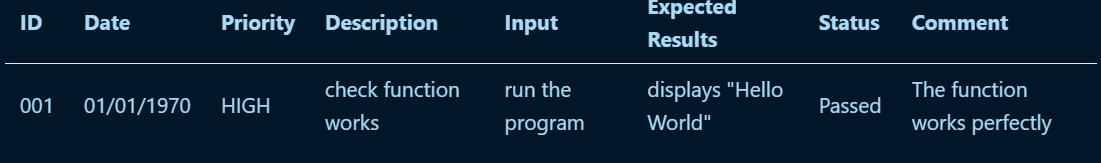
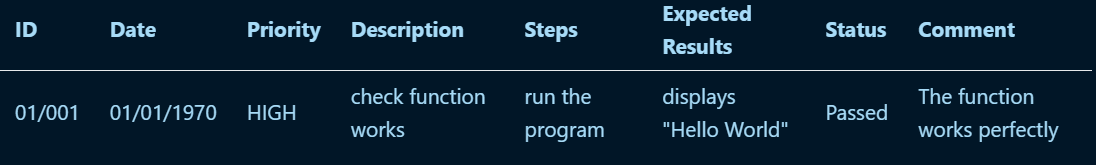
Updated QA documentation
Reviewed the test plan and added some modifications. Changed the ID template for test cases and test reports.

diff --git a/documents/QA/test_plan.md b/documents/QA/test_plan.md
@@ -12,28 +12,26 @@
       - [3.1.1. In-scope for Testing](#311-in-scope-for-testing)
       - [3.1.2. Out-of-scope for Testing](#312-out-of-scope-for-testing)
     - [3.2. Unit Tests](#32-unit-tests)
-    - [3.3. Tests Structure](#33-tests-structure)
-    - [3.4. Tests List](#34-tests-list)
-    - [3.5. Testing sessions](#35-testing-sessions)
-      - [3.5.1. Overview](#351-overview)
-      - [3.5.2. Smoke Testing](#352-smoke-testing)
-        - [3.5.2.1. Smoke Testing Scope](#3521-smoke-testing-scope)
-        - [3.5.2.2. Sequence of Smoke Testing](#3522-sequence-of-smoke-testing)
-      <!--- [3.5.3. Collaborative Testing Sessions](#353-collaborative-testing-sessions)-->
-        - [3.5.3.1. Session Scope](#3531-session-scope)
-    - [3.6. External tools](#36-external-tools)
-      - [3.6.1. GitHub](#361-github)
-        - [3.6.1.1. GitHub Overview](#3611-github-overview)
-        - [3.6.1.2. GitHub Actions](#3612-github-actions)
-          - [3.6.1.2.1. GitHub Actions Scope](#36121-github-actions-scope)
-          - [3.6.1.2.2. Workflow](#36122-workflow)
-          - [3.6.1.2.3. Configuration](#36123-configuration)
-      - [3.6.2. GitHub Issues](#362-github-issues)
-      - [3.6.3. Test Report and Meetings](#363-test-report-and-meetings)
-      - [3.6.4. Bug Data Report Spreadsheet](#364-bug-data-report-spreadsheet)
-        - [3.6.4.1. Spreadsheet Structure](#3641-spreadsheet-structure)
-    - [3.7. Documentation](#37-documentation)
-      - [3.7.1. GitHub Wiki](#371-github-wiki)
+    - [3.3. Testing sessions](#33-testing-sessions)
+      - [3.3.1. Overview](#331-overview)
+      - [3.3.2. Smoke Testing](#332-smoke-testing)
+        - [3.3.2.1. Smoke Testing Scope](#3321-smoke-testing-scope)
+        - [3.3.2.2. Sequence of Smoke Testing](#3322-sequence-of-smoke-testing)
+      <!--- [3.3.3. Collaborative Testing Sessions](#333-collaborative-testing-sessions)-->
+        - [3.3.3.1. Session Scope](#3331-session-scope)
+    - [3.4. External tools](#34-external-tools)
+      - [3.4.1. GitHub](#341-github)
+        - [3.4.1.1. GitHub Overview](#3411-github-overview)
+        - [3.4.1.2. GitHub Actions](#3412-github-actions)
+          - [3.4.1.2.1. GitHub Actions Scope](#34121-github-actions-scope)
+          - [3.4.1.2.2. Workflow](#34122-workflow)
+          - [3.4.1.2.3. Configuration](#34123-configuration)
+      - [3.4.2. GitHub Issues](#342-github-issues)
+      - [3.4.3. Test Report and Meetings](#343-test-report-and-meetings)
+      - [3.4.4. Bug Data Report Spreadsheet](#344-bug-data-report-spreadsheet)
+        - [3.4.4.1. Spreadsheet Structure](#3441-spreadsheet-structure)
+    - [3.5. Documentation](#35-documentation)
+      - [3.5.1. GitHub Wiki](#351-github-wiki)
   - [4. Test Criteria](#4-test-criteria)
     - [4.1. Suspension Criteria](#41-suspension-criteria)
     - [4.2. Exit Criteria](#42-exit-criteria)
@@ -53,7 +51,7 @@
 The project aims to create a virtual processor and an interpreter for running assembly code on that processor. The project would be developed in plain, portable, C language without the use of any external library beside 
 C standard libraries. 
 
-The assembly code would be created from scratch by us. It would deal with new names for several instructions and statements, while making sure that the purpose of an assembly language, which is be more efficient and closer to the machine, is respected.
+The assembly code would be created from scratch by us. It will deal with new names for several instructions and statements, while making sure that the purpose of an assembly language, which is to be more efficient and closer to the machine, is respected.
 
 For further details, refer to the [functional specifications](../functional/"functional".md) document.
 
@@ -68,6 +66,7 @@ For further details, refer to the [functional specifications](../functional/"fun
 | **Virtual Processor** | A processor (or processing unit) is an electrical component that performs operations on an external data source, usually memory or some other data stream. A virtual processor is basically a virtual machine that simulates the behavior of a processor. | [Wikipedia](https://en.wikipedia.org/wiki/Processor_(computing)) |
 | **GitHub Actions** | A CI/CD tool that allows us to run tests automatically after various actions on the repository and avoid errors on the dev or main branch. | [GitHub](https://docs.github.com/en/actions) |
 | **GitHub Issues** | A tool that allows us to create, manage, and assign issues to team members. | [GitHub](https://docs.github.com/en/issues) |
+| **GitHub Wiki** | Every GitHub repository can be equipped with a wiki, to share long-form content about your project, such as how to use it, how you designed it, or its core principles. | [GitHub](https://docs.github.com/en/communities/documenting-your-project-with-wikis/about-wikis) |
 
 
 ---
@@ -78,18 +77,20 @@ Here's the purpose of our testing strategy approach: <br> - **[Unit Tests](##32-
 
 ### 3.1. Scope of Testing
 
+Tests serve as a tool for improving the quality of the product.<br>
 Testing will focus on both memory allocating and basic instructions in assembly code to ensure that the quality of the required product is perfect. <br>The quality of all the product's features is mainly endorsed by Software Engineers and Quality assurances.
 
 #### 3.1.1. In-scope for Testing
 
 - 
 - 
-
+<!-- functional requirements -->
 
 #### 3.1.2. Out-of-scope for Testing
 
 - 
 - 
+<!-- non-functional requirements -->
 
 ---
 
@@ -107,82 +108,65 @@ These unit tests serve three crucial objectives:
 3. **Code Coverage:** Guarantee comprehensive testing to prevent future changes from unintentionally altering the original behavior of the code.
 
 
-### 3.3. Tests Structure
-
-Each test comprises the following components:
-
-1. **Function:** Identifies the function under examination.
-2. **Test Description:** Describes the purpose of the test, the specific conditions being evaluated, and the expected outcome.
-3. **Severity:** Indicates the criticality of the test, categorized as **High**, **Medium**, or **Low**.
-
-### 3.4. Tests List
-
-Mechanisms:
-| Function | Expected Result | Severity |
-| --- | --- | --- |
-| Storing an immediate value into a register | The register contains this immediate value | High |
-| Copying the value of a register into another register | The value of both registers are similar | Low |
-| Comparing the content of registers | They're not equal | Medium |
-
-
 ---
 
-### 3.5. Testing sessions
+### 3.3. Testing sessions
 
 
-#### 3.5.1. Overview
+#### 3.3.1. Overview
 
 We will perform manual 
 testing, using a combination of **[Smoke Testing](#352-smoke-testing)** and **[Collaborative Testing Sessions](#353-collaborative-testing-sessions)** to ensure the quality of the game. 
 
 
-#### 3.5.2. Smoke Testing
+#### 3.3.2. Smoke Testing
 
-Testing sessions will take place after days dedicated to the project, they will serve as smoke tests. The primary goal of smoke testing is to quickly assess whether the essential functionalities of the project are working as expected after each build. This testing phase is designed to identify critical issues early in the development process, allowing for rapid feedback and swift resolution of potential show-stopping problems.
+Testing sessions will take place during and after days dedicated to the project, they will serve as smoke tests. The primary goal of smoke testing is to quickly assess whether the essential functionalities of the project are working as expected after each build. This testing phase is designed to identify critical issues early in the development process, allowing for rapid feedback and swift resolution of potential show-stopping problems.
 
-##### 3.5.2.1. Smoke Testing Scope
+#### 3.3.2.1. Smoke Testing Scope
 
 The smoke testing scope will focus on the fundamental aspects of the product, including:
 
 1. **Process Launch:** Confirm that the product launches successfully without any critical errors or crashes.
 2. **Instructions functionality:** Check that basic instructions work as intended.
 
-##### 3.5.2.2. Sequence of Smoke Testing
+#### 3.3.2.2. Sequence of Smoke Testing
 
 During each smoke testing session, the following steps will be executed:
 
 1. **Product Deployment:** Deploy the latest product in the testing environment.
 2. **Test Execution:** Execute a set of [predefined test cases](./test_cases.md) covering the critical functionalities.
-3. **Archiving results:** Archive the test results [here]() for future reference.
-4. **Issue Reporting:** If critical issues are identified, report them to the development team.
+3. **Archiving results:** Archive the [test results](./test_reports.md) for future reference.
+4. **Issue Reporting:** If critical issues are identified, we need to report them to the development team.
 
 ---
 
-<!--#### 3.5.3. Collaborative Testing Sessions
+<!--#### 3.3.3. Collaborative Testing Sessions
 To gain a better overview of the project, a collaboration with other team's quality assurance was set up. This collaboration enables the teams to have an external view of the product and simply identify errors and bugs. The main advantage of this collaboration is to have several points of view on the same situation and to see or share new working methods.-->
 
-##### 3.5.3.1. Session Scope
+##### 3.3.3.1. Session Scope
 
 Sessions are designed primarily to:
 
 1. **Verify that the product is working as expected:** Check that all the product's basic instructions and additional statements are working properly.
 2. **Sharing tests:** Share tests between the teams to have a better overview of their product and to find easier bugs and errors.
 3. **Identify bugs and errors:** Find bugs and errors in the product to improve it.
-4. **Identify improvements and missing features:** Find improvements and missing features in the product to bring its behavior closer to a real processor's.
+4. **Identify improvements and missing features:** Find improvements and missing features in the product to bring it as far as possible.
 
 ---
 
-### 3.6. External tools
+### 3.4. External tools
 
-#### 3.6.1. GitHub
+#### 3.4.1. GitHub
 
-##### 3.6.1.1. GitHub Overview
+#### 3.4.1.1. GitHub Overview
 
 
 GitHub serves as our central platform for version control, collaboration, and issue tracking.
+
 ---
 
-##### 3.6.1.2. GitHub Actions
+#### 3.4.1.2. GitHub Actions
 
 
 GitHub Actions are utilized for continuous integration and deployment. The workflow is triggered on each push to the main branch, ensuring the automatic execution of tests. (During the development phase, the workflow will also be triggered on each push to the dev branch.)
@@ -190,15 +174,15 @@ GitHub Actions are utilized for continuous integration and deployment. The workf
 It will allow us to know if the code is unfunctional at some points, when it appeared and which changes caused it.
 
 
-###### 3.6.1.2.1. GitHub Actions Scope
+#### 3.4.1.2.1. GitHub Actions Scope
 
 The GitHub Actions will be activated on pull requests on the dev and main branch and their scope is to:
 
 1. **Launch and Interpret:** Launch the process and ensure there is no interpreting error.
 2. **Run unit tests:** Run unit tests to ensure that the main functions of the product are working properly.
-3. **Ensure that the code on the references branches is working** Ensure that the code on the main and dev branches is working properly and avoid creating new branches from code that doesn't work.
+3. **Ensure that the code on the referenced branches is working** Ensure that the code on the main and dev branches is working properly and avoid creating new branches from code that doesn't work.
 
-###### 3.6.1.2.2. Workflow
+#### 3.4.1.2.2. Workflow
 
 The workflow consists of the following steps:
 
@@ -209,24 +193,21 @@ The workflow consists of the following steps:
 
 If any of the steps fail, the workflow will be marked as failed and the development team will be notified at which step the error occurred.
 
-###### 3.6.1.2.3. Configuration
+#### 3.4.1.2.3. Configuration
 
-Actions such as interpreting and execution of unit tests will be performed on quality assurance's computer. These actions are enabled and synchronized with GitHub, thanks to a runner provided by GitHub. Once the runner has been activated on a computer, it can be selected to execute the various workflow actions.
+Actions, such as interpreting and executing unit tests, will be performed on quality assurance's computer. These actions are enabled and synchronized with GitHub. Once the runner has been activated on the computer, it can be selected to execute the various workflow actions.
 
 This allows us to have a runner available all time and to have a better overview of the errors that may occur.
 
 ---
 
-#### 3.6.2. GitHub Issues
+#### 3.4.2. GitHub Issues
 
 GitHub Issues is a built-in issue-tracking tool that allows us to create and manage issues and assign them to team members. This is mainly the role of the Quality Assurance to create as many GitHub Issues as there are problems regarding the product.
 
 We define:
 
 - **Bugs:** Unexpected problems or code errors.
-- **Errors:** Includes all errors that do not originate in the code.
-- **Deadlines:** Specific deadlines for project stages to ensure timely
-  delivery.
 - **Documentation:** Request for documentation on a specific function or group of functions in the code.
 - **Task allocation:** Assignment and tracking of specific responsibilities.
 
@@ -241,18 +222,13 @@ We are implementing a strategy for managing GitHub issues. Here are the key comp
 
 2. **Labeling System:**
    - Utilize labels to categorize issues, such as "bug," or "enhancement".
-   - Labels aid in quickly identifying the nature of the issue and prioritizing tasks.
+   - Labels help identifying the nature of the issue and prioritizing tasks quickly.
 
 3. **Assignees and Responsibility:**
    - Assign issues to the appropriate team member or individuals responsible for addressing the problem.
    - Assignees take ownership of the task, improving accountability.
 
-4. **Use of Templates:**
-    - We have introduced issue templates to standardize the information provided for different types of issues.
-    - The template includes sections for steps to reproduce, expected and actual behavior, environment details, and more.
-    - Using templates ensures that crucial information is consistently captured for debugging and resolution.
-
-5. **Regular Issue Triage:**
+4. **Regular Issue Triage:**
     - Regularly review and triage open issues.
     - Prioritize tasks based on their urgency (Critical, High, Medium, Low).
 
@@ -260,21 +236,21 @@ By implementing these strategies, we aim to foster a more organized and efficien
 
 ---
 
-#### 3.6.3. Tests Report and Meetings
+#### 3.4.3. Tests Report and Meetings
 
 **Test Report:**
 
-The file "[test report](./test_report.md)" will contain all the test reports of the project. Each test report will be listed and named with the ID of the test and the date of the test session.
+The [test report spreadsheet](https://docs.google.com/spreadsheets/d/1d-gDcUtc-J6af9MfQXIPr_xVtwP7XKyHaRIFd1-BpWI/edit?hl=fr#gid=0) will contain all the test reports of the project. Each test report will be listed and named with the ID of the test and the date of the test session.
 
 **QA Meetings:**
 
-The QA team could also have several meetings with the SE team, to talk about specific topics regarding the project. 
+The QA team could also have several meetings with the SE team, to talk about specific topics regarding the development. 
 
 ---
 
-#### 3.6.4. Tests
+#### 3.4.4. Tests
 
-Tests serve as a tool for improving the quality of the product. To document and track easily test cases, their results, and overall testing progress, the tests would be divided into these three sections:
+To document and track easily test cases, their results, and overall testing progress, the tests would be divided into these three sections:
 
 1. **Test Case Pattern:** 
 
@@ -290,9 +266,9 @@ We also have to make a certain pattern for test reports to ensure the readabilit
 ![test report pattern](../images/qa_images/test_report_pattern.png)
 For further details, refer to the [test report](./test_report.md) document.
 
-3. **Progression bars:**
+3. **Progression:**
    - **Test Amount Representation:**
-     - A bar representing the test cases based on the amount of their status (Passed, Failed, In Progress, Not Implemented).
+     - A visual schema representing the test cases based on the amount of their status (Passed, Failed, In Progress, Not Implemented).
      - Provides a visual snapshot of the overall testing status. <br>
    - **Example:** 
       - Passed: ![](https://geps.dev/progress/50)
@@ -300,9 +276,9 @@ For further details, refer to the [test report](./test_report.md) document.
       - Work in Progress: ![](https://geps.dev/progress/85)
       - Not implemented: ![](https://geps.dev/progress/15)
 
-### 3.7. Documentation
+### 3.5. Documentation
 
-#### 3.7.1. GitHub Wiki
+#### 3.5.1. GitHub Wiki
 To enhance transparency, collaboration, and knowledge sharing within our development process, we are adopting a centralized documentation approach using GitHub Wiki. This platform will serve as a comprehensive repository for all documentation related to our codebase. 
 
 - The GitHub Wiki will function as a centralized knowledge hub for our project, housing detailed documentation on code structure, functions, and project-related information.
@@ -311,7 +287,7 @@ To enhance transparency, collaboration, and knowledge sharing within our develop
 Each complex function will have dedicated pages for in-depth information.
 Flowcharts or diagrams will be integrated to enhance the understanding of complex processes.
 
-- To facilitate developers in documenting their code effectively, we will provide a template that guides them on the essential information to include. The template will be available on the project GitHub in the folder documents/QA, the file name is "Function-documentation-template". Developers can use it as a reference when documenting their code. Encourage developers to provide examples and use cases in their documentation to make it more practical and user-friendly.
+<!-- - To facilitate developers in documenting their code effectively, we will provide a template that guides them on the essential information to include. The template will be available on the project GitHub in the folder documents/QA, the file name is "Function-documentation-template". Developers can use it as a reference when documenting their code. Encourage developers to provide examples and use cases in their documentation to make it more practical and user-friendly. -->
 
 - Centralized documentation simplifies onboarding for new team members by providing a single, accessible source of truth. Emphasize the importance of keeping documentation up-to-date, especially during onboarding periods, to ensure the documentation remains accurate and relevant.
 
@@ -353,11 +329,15 @@ Before the product can be considered ready for distribution, certain benchmarks 
 
 ## 5. Allocated Resources
 
-### 5.1. People
+### 5.1. Time
 
-For this project, the people involved to perform tests are the Quality Assurance of team 2<!--, but also quality assurances of other teams during the team test sessions.-->
+<!-- Test Schedule -->
 
-### 5.2. Testing Environment Requirements
+### 5.2. People
+
+For this project, the people involved to perform tests are the Quality Assurance of team 2<!--, but also quality assurances of other teams during the team test sessions-->.
+
+### 5.3. Testing Environment Requirements
 
   
 1. **Code Editor:**

diff --git a/documents/QA/test_cases.md b/documents/QA/test_cases.md
@@ -1,9 +1,11 @@
 | ID | Date  | Priority | Test case Scenario                                  | Test case Description     | Pre-conditions    | Test Steps                   | Expected Results                                                |
 | -- | --- | -------- |------------------------------------------------------------------------------------------ | ------ | --------------------------------- | --------- | ----------------------------------------------------------------------------------------------------------------- |
-| 001 | 01/01/1970 | HIGH | run the program, and see what's displayed | make sure the 'printf' function works correctly | have the most up-dated version of the product | 1. run the program 2. see the result | "Hello World" is displayed |
+| 01/001 | 01/01/1970 | HIGH | run the program, and see what's displayed | make sure the 'printf' function works correctly | have the most up-dated version of the product | 1. run the program 2. see the result | "Hello World" is displayed |
 
 **ID**<br>
-The ID of the test case.
+The ID of the test case. It will follow a certain pattern: 
+- The first numbers are the version of the tested product -> `01`/001
+- The last numbers are the number of the test -> 01/`001`
 
 **Date**<br>
 The date when the bug has been discovered.

diff --git a/documents/QA/test_reports.md b/documents/QA/test_reports.md
@@ -1,10 +1,12 @@
 
 | ID | Date  |  Priority | Description                                  | Steps     | Expected Results                                                | Status    |Comment                   |
 | -- | --- | -------- |------------------------------------------------------------------------------------------ | ------ | --------------------------------- | --------- | ----------------------------------------------------------------------------------------------------------------- |
-| 001 | 01/01/1970 | HIGH | check function works | run the program | displays "Hello World" | Passed | The function works perfectly |
+| 01/001 | 01/01/1970 | HIGH | check function works | run the program | displays "Hello World" | Passed | The function works perfectly |
 
 **ID**<br>
-The ID of the test case.
+The ID of the test case. It will follow a certain pattern: 
+- The first numbers are the version of the tested product -> `01`/001
+- The last numbers are the number of the test -> 01/`001`
 
 **Date**<br>
 Set the date when the bug has been discovered.
